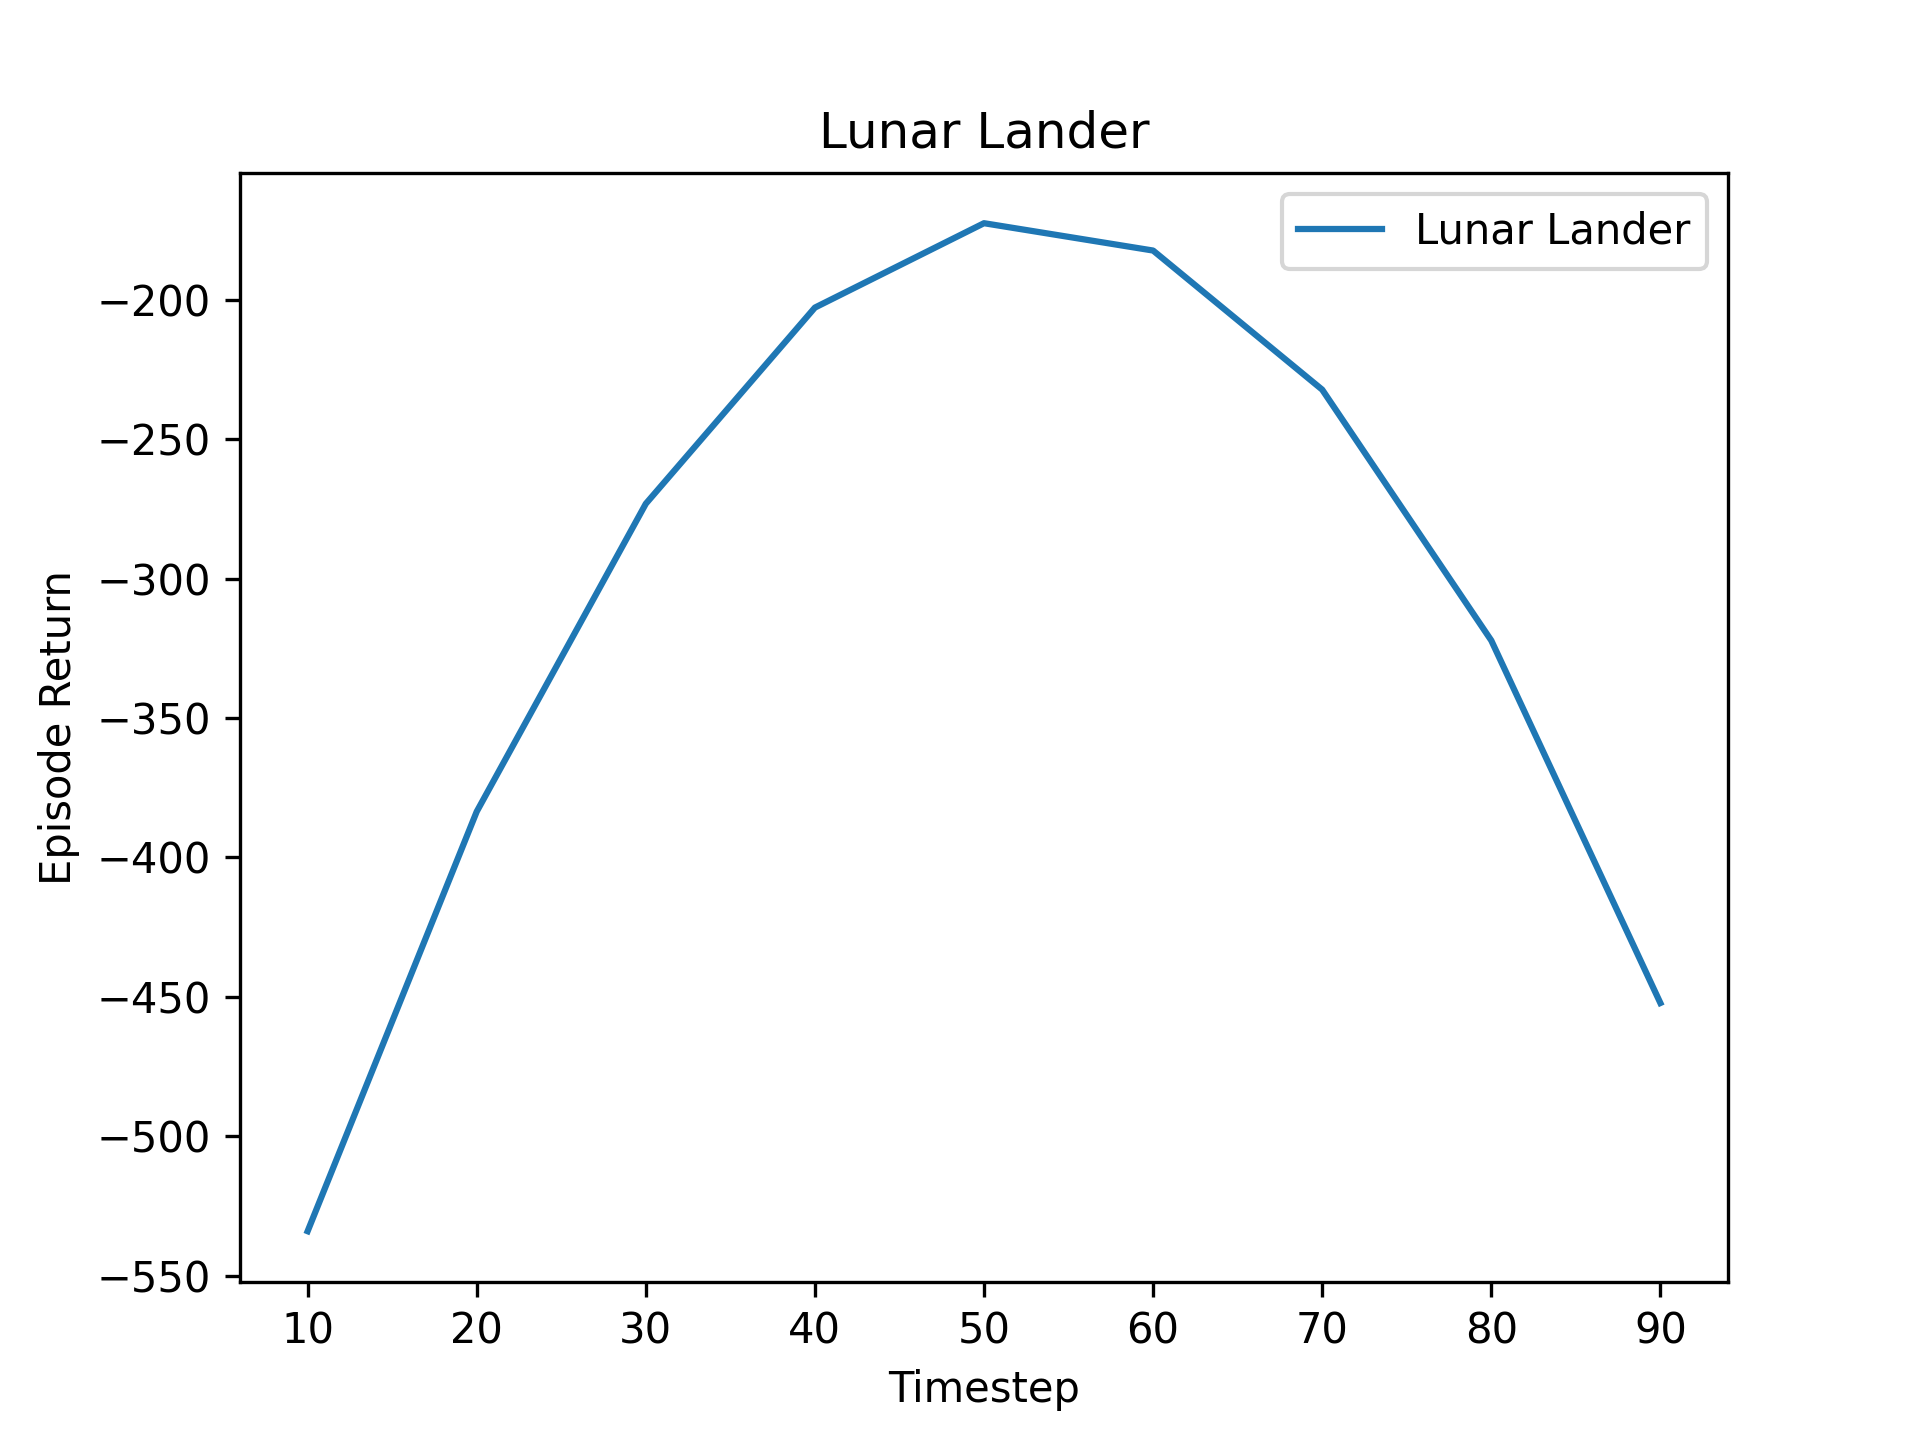
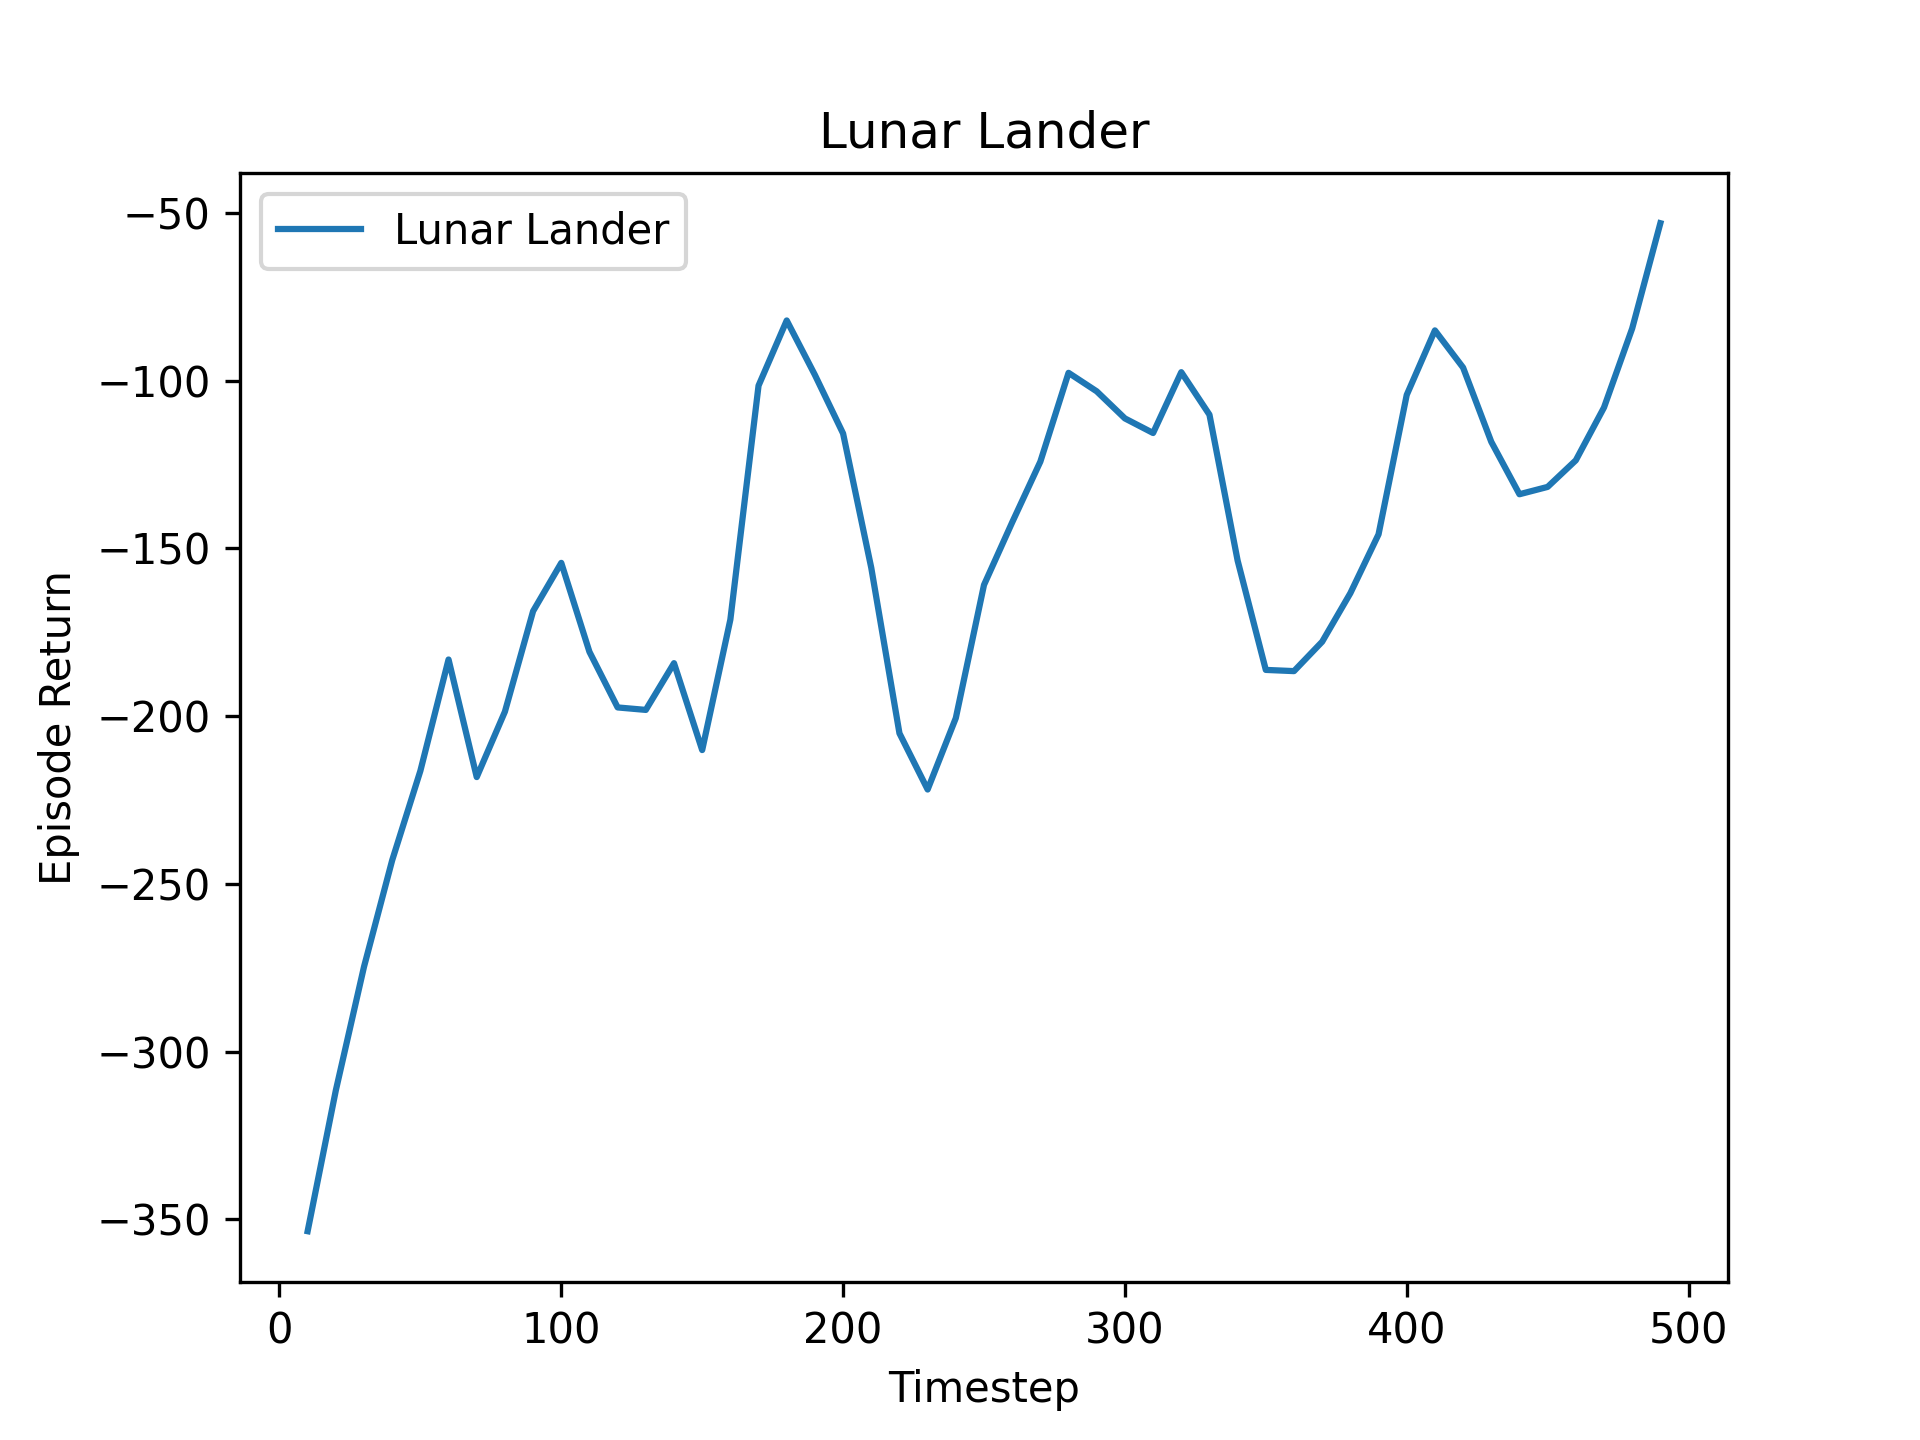
Added GPU option

diff --git a/DQN.py b/DQN.py
@@ -15,13 +15,16 @@ import torch.nn.functional as f
 from tqdm import tqdm
 
 class DQNAgent(DQN_BaseAgent):
+    def __init__(self, state_dim, action_dim, learning_rate, gamma, neurons, UTDR, len_buffer, len_batch):
+        super().__init__(state_dim, action_dim, learning_rate, gamma, neurons, UTDR, len_buffer, len_batch)
+
     def loss_and_optimize(self, Q_sa, r_tensor, Q_sa_next, done_tensor):
         """Calculate the loss and optimize the network"""
         # Calculate target
         target_Q_sa = r_tensor + self.gamma * Q_sa_next * (1 - done_tensor) 
         
         # Calculate loss
-        loss = f.mse_loss(Q_sa, target_Q_sa)
+        loss = f.mse_loss(Q_sa, target_Q_sa.to(self.device))  # Move target to same device
 
         # Optimize
         self.optim.zero_grad()
@@ -39,42 +42,35 @@ class DQNAgent(DQN_BaseAgent):
             done (bool): whether the episode is done
         """
         # Convert to tensors
-        # print(s.shape, a.shape, r.shape, s_next.shape, done.shape)
-        s_tensor = torch.FloatTensor(s).unsqueeze(0)
-        a_tensor = torch.LongTensor([a]).unsqueeze(1)
-        r_tensor = torch.FloatTensor([r]).unsqueeze(0)
-        s_next_tensor = torch.FloatTensor(s_next).unsqueeze(0)
-        done_tensor = torch.FloatTensor([done]).unsqueeze(0)
+        s_tensor = torch.FloatTensor(s).unsqueeze(0).to(self.device)
+        a_tensor = torch.LongTensor([a]).unsqueeze(1).to(self.device)
+        r_tensor = torch.FloatTensor([r]).unsqueeze(0).to(self.device)
+        s_next_tensor = torch.FloatTensor(s_next).unsqueeze(0).to(self.device)
+        done_tensor = torch.FloatTensor([done]).unsqueeze(0).to(self.device)
         
         # Get Q-values for state and next state
         Q_sa = self.network(s_tensor).gather(1, a_tensor) # Gather all Q-values for the state and select the one corresponding to the action in dim 1
 
         with torch.no_grad():
-            if TN:
-                Q_sa_next = self.target_network(s_next_tensor).max(1)[0].detach()
-            else:
-                Q_sa_next = self.network(s_next_tensor).max(1)[0].detach() # Detach (return new tensor)
+            Q_sa_next = (self.target_network if TN else self.network)(s_next_tensor).max(1)[0].detach()
         
-        self.loss_and_optimize(Q_sa, r_tensor, Q_sa_next, done_tensor)
-       
+        self.loss_and_optimize(Q_sa, r_tensor, Q_sa_next.to(self.device), done_tensor)
+
     def performance_update(self, TN=False):
         """
         Experience Replay and/or Target Network update
         """
         s, a, r, s_next, done = self.memory.sample()
-        s_tensor = torch.FloatTensor(s) # Already in the right shape, as for s_next
-        a_tensor = torch.LongTensor(a).unsqueeze(1)
-        r_tensor = torch.FloatTensor(r).unsqueeze(1)
-        s_next_tensor = torch.FloatTensor(s_next)
-        done_tensor = torch.FloatTensor(done).unsqueeze(1)
+        s_tensor = torch.FloatTensor(s).to(self.device) # Already in the right shape, as for s_next
+        a_tensor = torch.LongTensor(a).unsqueeze(1).to(self.device)
+        r_tensor = torch.FloatTensor(r).unsqueeze(1).to(self.device)
+        s_next_tensor = torch.FloatTensor(s_next).to(self.device)
+        done_tensor = torch.FloatTensor(done).unsqueeze(1).to(self.device)
 
         Q_sa = self.network(s_tensor).gather(1, a_tensor)
 
         with torch.no_grad():
-            if TN:
-                Q_sa_next = self.target_network(s_next_tensor).max(1)[0].detach().view(-1, 1)  # Set shape to match with above tensors
-            else:
-                Q_sa_next = self.network(s_next_tensor).max(1)[0].detach().view(-1, 1)
+            Q_sa_next = (self.target_network if TN else self.network)(s_next_tensor).max(1)[0].detach().view(-1, 1)
 
         self.loss_and_optimize(Q_sa, r_tensor, Q_sa_next, done_tensor)
 
@@ -109,6 +105,11 @@ def dqn(n_episodes, learning_rate, gamma, policy='egreedy', epsilon=None, temp=N
         env = CartPole().env
     agent = DQNAgent(env.observation_space.shape[0], env.action_space.n, learning_rate, gamma, 
                      neurons, UTDR, len_buffer, len_batch)
+
+    # Ensure model is on correct device
+    agent.network.to(agent.device)
+    if TN:
+        agent.target_network.to(agent.device)
 
     # Store rewards and evaluation results
     r_tot = 0

diff --git a/Agent.py b/Agent.py
@@ -72,6 +72,12 @@ class DQN_BaseAgent:
         self.target_network = NeuralNetwork(n_states, n_actions, neurons)
         self.target_network.load_state_dict(self.network.state_dict()) # Copy the state paramaters of the NN to the TN
         self.target_network.eval()
+
+        self.device = torch.device("cuda" if torch.cuda.is_available() else 
+                                   "mps" if torch.backends.mps.is_available() else "cpu")
+        print(f"Using {self.device} for pytorch")
+        self.network.to(self.device)
+        self.target_network.to(self.device)
         
     def select_action(self, s, policy='egreedy', epsilon=None, temp=None):
         """Select an action based on the policy
@@ -86,11 +92,11 @@ class DQN_BaseAgent:
             a (int): action
         """
         if isinstance(s, torch.Tensor):
-             s_tensor = s.clone().detach().float()
+            s_tensor = s.clone().detach().float().to(self.device)
         else:
-            s_tensor = torch.tensor(s).float()
+            s_tensor = torch.tensor(s).float().to(self.device)
         with torch.no_grad():
-            Q_sa = self.network(s_tensor).numpy().squeeze()
+            Q_sa = self.network(s_tensor).cpu().numpy().squeeze()
 
         if policy == 'greedy':
             a = argmax(Q_sa)
@@ -129,6 +135,7 @@ class DQN_BaseAgent:
 
         for i in range(n_eval_episodes):
             s = eval_env.reset()[0] 
+            s = torch.tensor(s, dtype=torch.float32, device=self.device)
             R_ep = 0 # Reward per episode
             for t in range(max_episode_length):
                 a = self.select_action(s, 'greedy') 
@@ -138,6 +145,7 @@ class DQN_BaseAgent:
                     break
                 else:
                     s = s_prime
+                    s = torch.tensor(s, dtype=torch.float32, device=self.device)
             returns.append(R_ep)
     
         mean_return = np.mean(returns)

diff --git a/Experiment.py b/Experiment.py
@@ -114,8 +114,6 @@ def experiment(args):
 
     if args.lunar_bonus:
         print('Running Lunar Lander')
-        n_episodes = 500
-        learning_rate = 0.01
         Plot = LearningCurvePlot(title = 'Lunar Lander')
         learning_curve, episodes = average_over_repetitions(n_repetitions, n_episodes, learning_rate, gamma, policy, epsilon, temp,
                                                             smoothing_window, plot, eval_interval, neurons, UTDR, len_buffer, len_batch, ER, TN, True)
